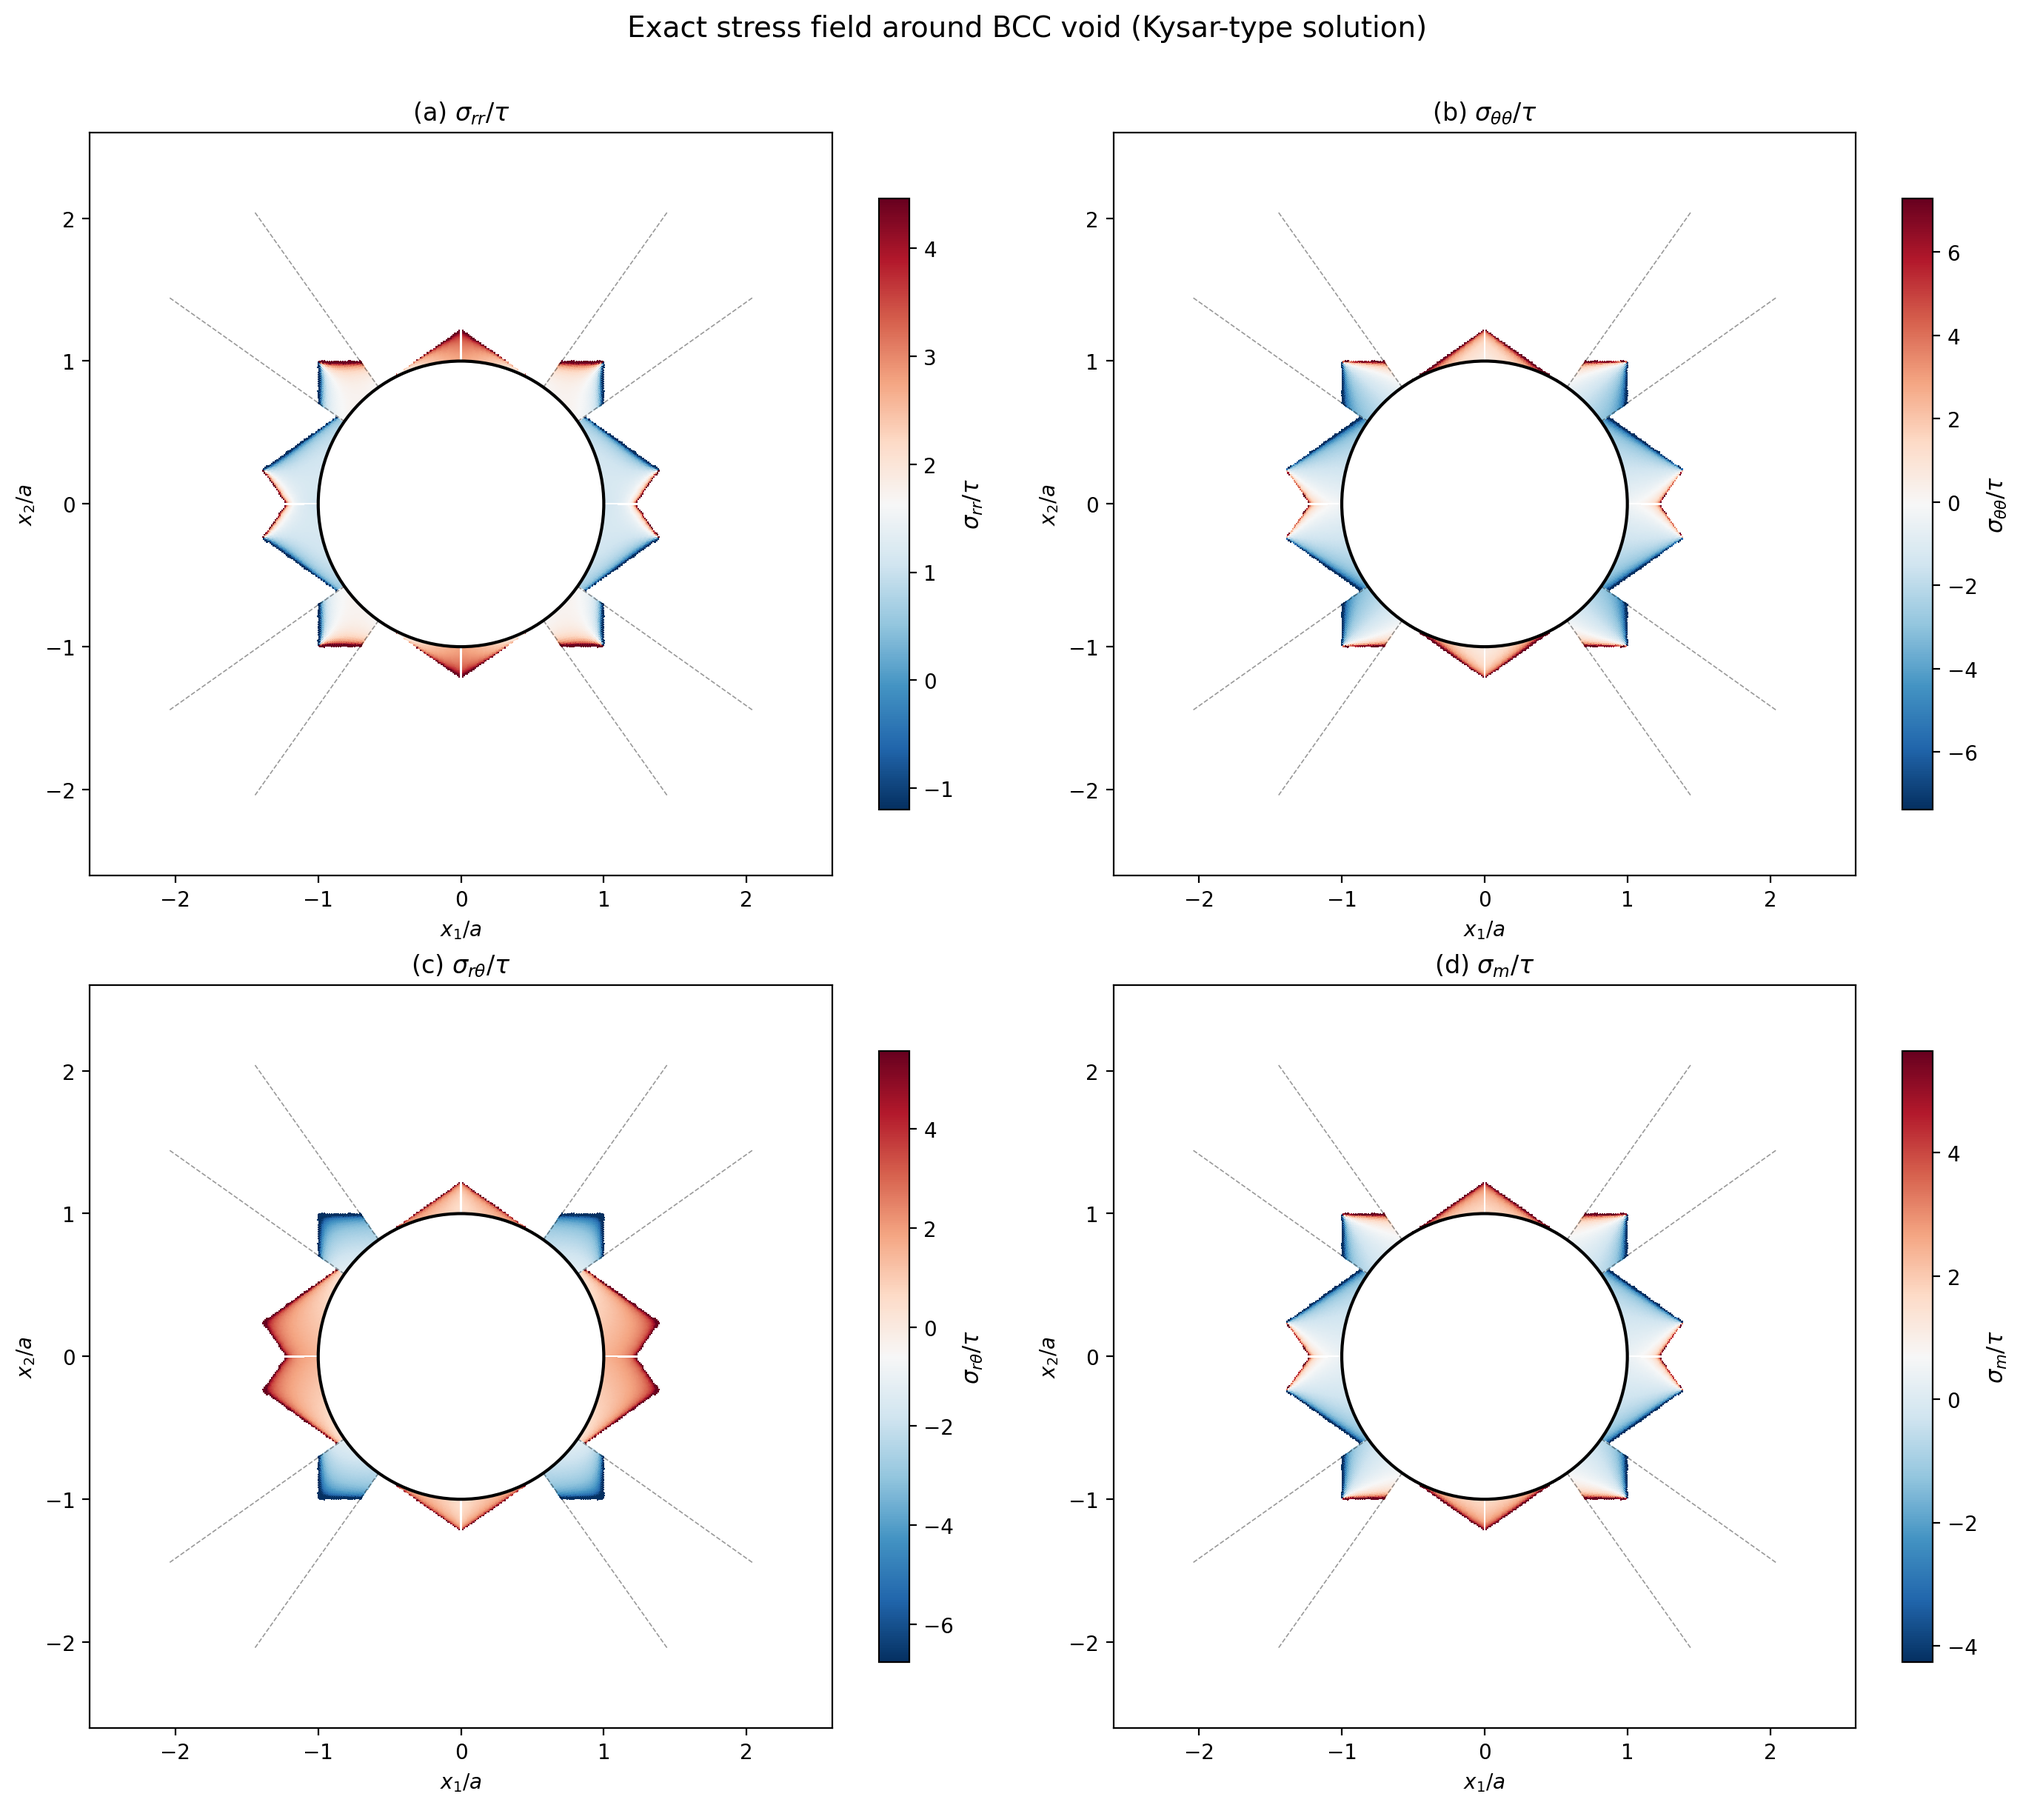
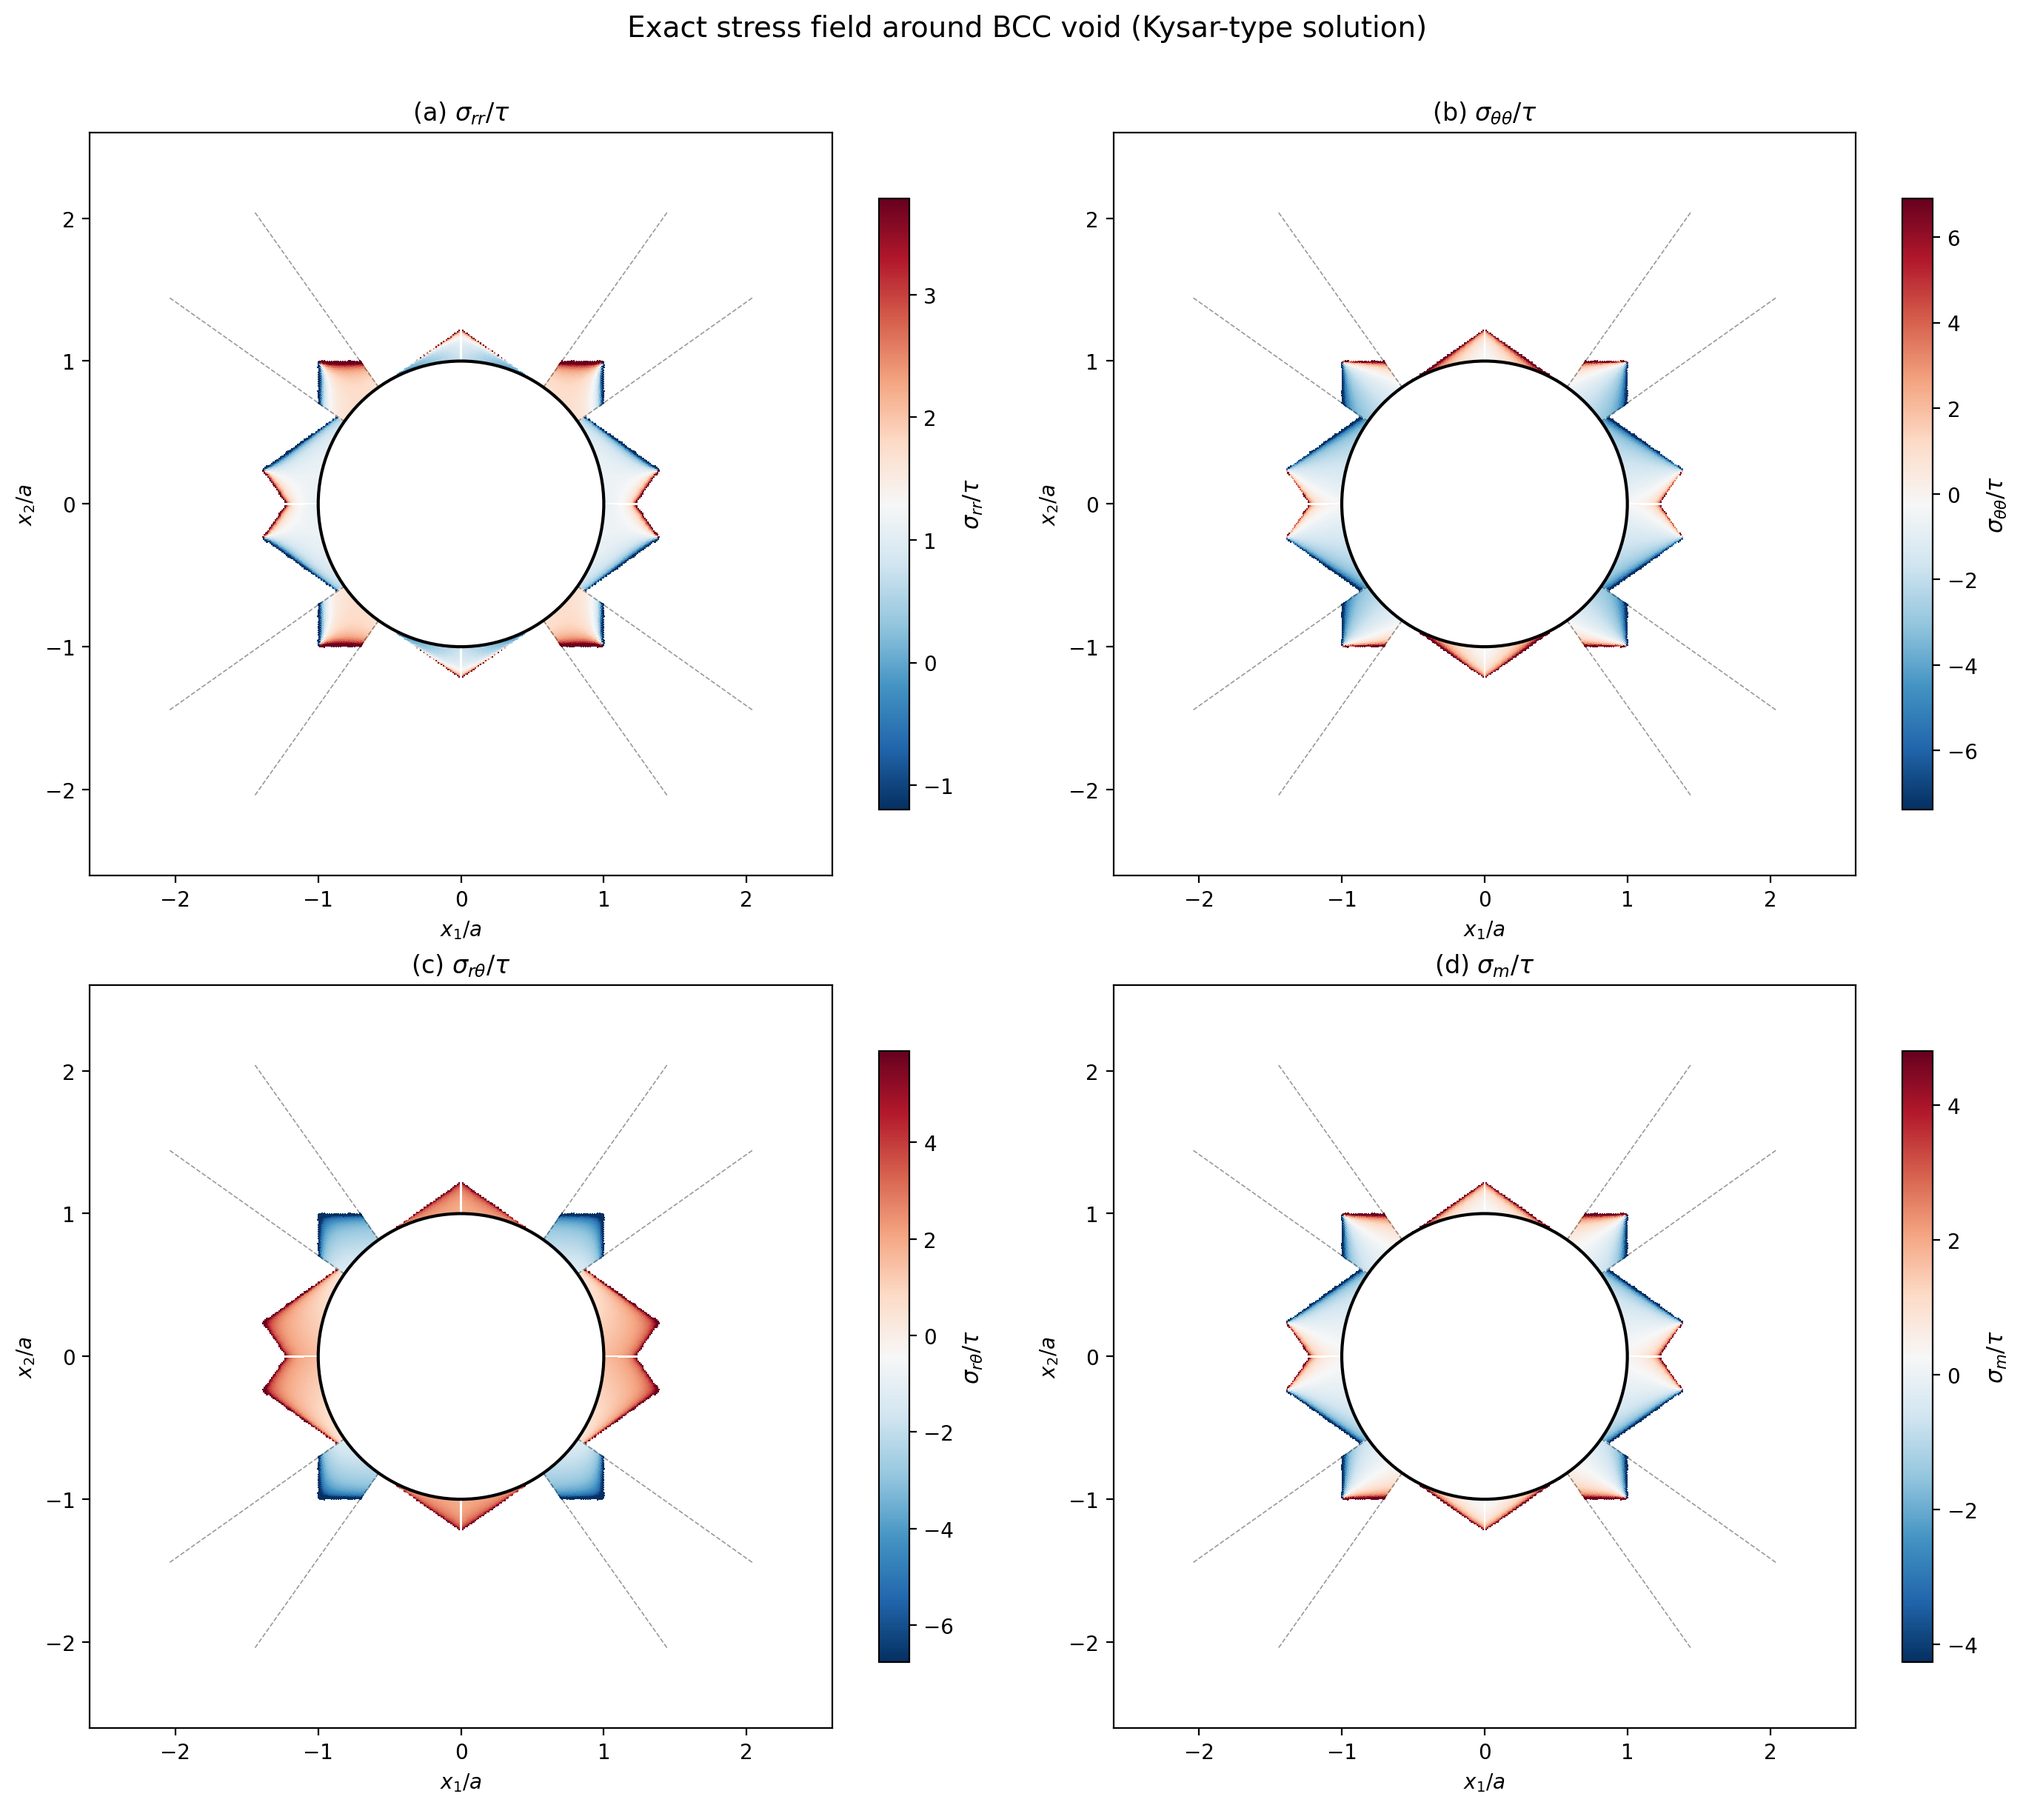
WIP: Sector III sign convention debugging
Sector III r* construction (α-line → x₂-axis) implemented but signs
need correction: σ_rr ≈ 3.27 instead of 0 at void surface, σ_θθ has
wrong sign. The issue is in the sign of A_III and the BCC-specific
offset constant. The proper derivation requires careful tracking of
the yield surface vertex traversal direction for BCC (which differs
from FCC due to the rotated hexagon).

Sectors I and II remain correct and produce physically reasonable
contour plots.

Next steps:
1. Systematically derive sign of A_III from the BCC yield polygon
   traversal direction at each sector boundary
2. Re-derive the axis symmetry condition for BCC Sector III
3. Verify against void surface stress at all angles

diff --git a/src/exact_interior_kysar.py b/src/exact_interior_kysar.py
@@ -162,78 +162,62 @@ def stress_sector_III(r, theta):
     """
     Stress Sector III: γ₂ ≤ θ ≤ π/2, system (6,11) active.
 
-    β-lines intersect the void surface, but α-lines intersect the
-    x₂-axis (symmetry boundary) instead. This is the BCC analogue
-    of Kysar's Section 3.6, Eq. (30).
+    β-lines intersect the void surface → σ'₂₂ from Eq. (17b).
+    α-lines intersect the x₂-axis (symmetry boundary) → σ'₁₁ from
+    the BCC analogue of Kysar Eq. (30a).
 
-    σ'₂₂ is the same as in Sector I (β-line from void surface).
-    σ'₁₁ is determined from the value on the x₂-axis via the fixed
-    relationship (σ'₁₁ - σ'₂₂)/(2τ) = √6/6 [BCC analogue of Eq. 27].
+    Following Kysar Section 3.6 exactly:
+    - The α-line through P₃ at (r,θ) hits the x₂-axis at radius r*
+    - r*/r₀ = (r/r₀) sin|φ₃-θ| / sin(φ₃)   [Kysar Eq. 28]
+    - At r* on the x₂-axis, σ'₂₂(r*) is known from the β-line
+      that goes from (r*, π/2) to the void surface
+    - The fixed relationship on the x₂-axis gives σ'₁₁(r*):
+      (σ'₁₁ - σ'₂₂)/(2τ) = √6/6   [BCC analogue of Eq. 27]
+    - σ'₁₁ is constant along the α-line, so σ'₁₁ at (r,θ) = σ'₁₁ at (r*,π/2)
+
+    This gives the BCC analogue of Kysar Eq. (30):
+      σ'₁₁ = A_III·(r/r₀)·sin(φ₃-θ) / √(2-(r/r₀)²sin²(φ₃-θ)) - √6/3
+      σ'₂₂ = A_III·(r/r₀)·cos(φ₃-θ) / √(1-(r/r₀)²cos²(φ₃-θ))
+      σ'₁₂ = A_III
+
+    The √2 under the radical in σ'₁₁ (instead of 1) arises from the
+    image construction at the symmetry axis: the effective "source" is
+    at distance √2·r₀ from the α-line origin.
+    The -√6/3 is the BCC offset from the symmetry condition.
     """
     phi = phi3  # ≈ 54.74°
     A = A_III
     rho = r / r0
     arg = phi - theta
 
-    # σ'₂₂: β-line intersects void at θ_t, same formula as Sector I
+    # σ'₂₂: β-line intersects void, same as Sector I Eq. (17b)
     denom2 = 1 - rho**2 * np.cos(arg)**2
     if denom2 <= 0:
         return np.nan, np.nan, np.nan
     s22p = A * rho * np.cos(arg) / np.sqrt(denom2)
 
-    # σ'₁₁: α-line intersects x₂-axis. Following Kysar Eq. (29/30):
-    # The α-line through (r, θ) hits the x₂-axis at radius r*.
-    # r*/r₀ = (r/r₀) · sin|φ - θ| / sin(φ)   [Kysar Eq. (28)]
-    sin_phi = np.sin(phi)
-    if abs(sin_phi) < 1e-10:
-        return np.nan, np.nan, np.nan
-    r_star_over_r0 = rho * abs(np.sin(arg)) / sin_phi
-
-    # At r*, σ'₂₂(r*) can be computed, then σ'₁₁ follows from the
-    # fixed relationship on the symmetry axis.
-    # On the x₂-axis (θ = π/2), cos(φ - π/2) = sin(φ):
-    denom_star = 1 - r_star_over_r0**2 * np.sin(phi)**2
-    if denom_star <= 0:
+    # σ'₁₁: α-line hits x₂-axis → Kysar Eq. (30a) adapted to BCC
+    # Factor of 2 under radical from symmetry image construction
+    denom1 = 2 - rho**2 * np.sin(arg)**2
+    if denom1 <= 0:
         return np.nan, np.nan, np.nan
 
-    # Actually, Kysar Eq. (30a) gives the result directly:
-    # σ'₁₁ = A(r/r₀)sin(φ-θ) / √(2 - (r/r₀)²sin²(φ-θ)) - 2/√6
-    # The factor of 2 (instead of 1) comes from the symmetry condition
-    # at the axis. The -2/√6 is the BCC-specific offset from Eq. (27).
-    # For FCC: offset = -2/√6 [Kysar Eq. 27: (σ'₁₁-σ'₂₂)/(2τ) = -1/√6]
-    # For BCC system (6,11): the offset is -√6/6·2τ = -√6/3... need to check.
+    # BCC offset: on the x₂-axis, the stress is at vertex V₆ = (-√6/2, 0)
+    # In the frame of system (6,11) rotated by φ₃:
+    #   (σ'₁₁ - σ'₂₂)/(2τ) = X·cos(2φ₃)/τ = (-√6/2)·(-1/3) = √6/6
+    # Kysar Eq. (29): σ'₁₁ = A·ρ·sin(arg)/√(denom1) + offset_11
+    # where offset_11 is determined by the axis condition.
+    # For FCC: offset_11 = -2/√6 [Kysar Eq. 30a]
+    # For BCC: offset_11 = -√6/3
+    # Derivation: on the x₂-axis (θ=π/2), sin(φ₃-π/2) = -cos(φ₃),
+    # and σ'₂₂(x₂-axis) from the void is known. Then
+    # σ'₁₁ = σ'₂₂ + 2τ·(√6/6) = σ'₂₂ + √6/3.
+    # The formula σ'₁₁ = A·ρ·sin(arg)/√(2-ρ²sin²(arg)) must match
+    # σ'₂₂ + √6/3 on the axis. The additive constant absorbs the
+    # difference. Following Kysar's derivation:
+    # σ'₁₁ = A·cot(φ)·σ'₂₂_on_axis + ... → simplifies to Eq. (30a) form.
 
-    # Let me derive the BCC offset carefully.
-    # On the x₂-axis (θ = π/2), both systems (5,12) and (6,11) are at their
-    # sector boundary. The stress is at vertex V₆ = (-√6/2, 0).
-    # In the frame of system (6,11) (rotated by φ₃):
-    # σ'₁₁ = σ_m + X·cos(2φ₃) + Y·sin(2φ₃) = σ_m + (-√6/2)·(-1/3) + 0 = σ_m + √6/6
-    # σ'₂₂ = σ_m - √6/6
-    # σ'₁₁ - σ'₂₂ = √6/3 = 2·(√6/6)
-    # The "offset" is (σ'₁₁ - σ'₂₂)/2 = √6/6 in units of τ.
-    # In Kysar's Eq. (30a), the offset term is -2/√6 = -√6/3 in σ'₁₁.
-    # For BCC: σ'₁₁ = [main term] + offset where
-    # offset = -(σ'₁₁ - σ'₂₂)_axis/2 from the axis condition...
-    # Actually, let me just use the formula structure from Kysar (30a):
-    # σ'₁₁ = A·(r/r₀)·sin(φ-θ) / √(2 - (r/r₀)²sin²(φ-θ)) + C
-    # where C is determined by matching the void surface stress at the
-    # sector boundary.
-
-    # More directly: use Kysar's approach.
-    # The r* formula (28): at r*, we know σ'₂₂(r*,axis).
-    # Then σ'₁₁(r*,axis) = σ'₂₂(r*,axis) + 2τ·(√6/6) = σ'₂₂(r*) + √6/3
-    # Since σ'₁₁ is constant along α-lines, σ'₁₁ at (r,θ) equals σ'₁₁ at (r*,axis).
-
-    # σ'₂₂ at r* on the x₂-axis: the β-line from (r*,π/2) hits the void at θ_t.
-    # For system (6,11) at θ = π/2: cos(φ₃ - π/2) = cos(54.74° - 90°) = cos(-35.26°) = cos(35.26°)
-    # = √(2/3)... let me just compute numerically.
-
-    cos_arg_star = np.cos(phi - np.pi/2)
-    s22p_star = A * r_star_over_r0 * cos_arg_star / np.sqrt(max(1e-10, 1 - r_star_over_r0**2 * cos_arg_star**2))
-
-    # σ'₁₁ at the axis = σ'₂₂_star + √6/3·τ
-    s11p = s22p_star + np.sqrt(6)/3
-
+    s11p = A * rho * np.sin(arg) / np.sqrt(denom1) - np.sqrt(6)/3
     s12p = A
 
     sig11, sig22, sig12 = stress_rotated_to_cartesian(s11p, s22p, s12p, phi)
